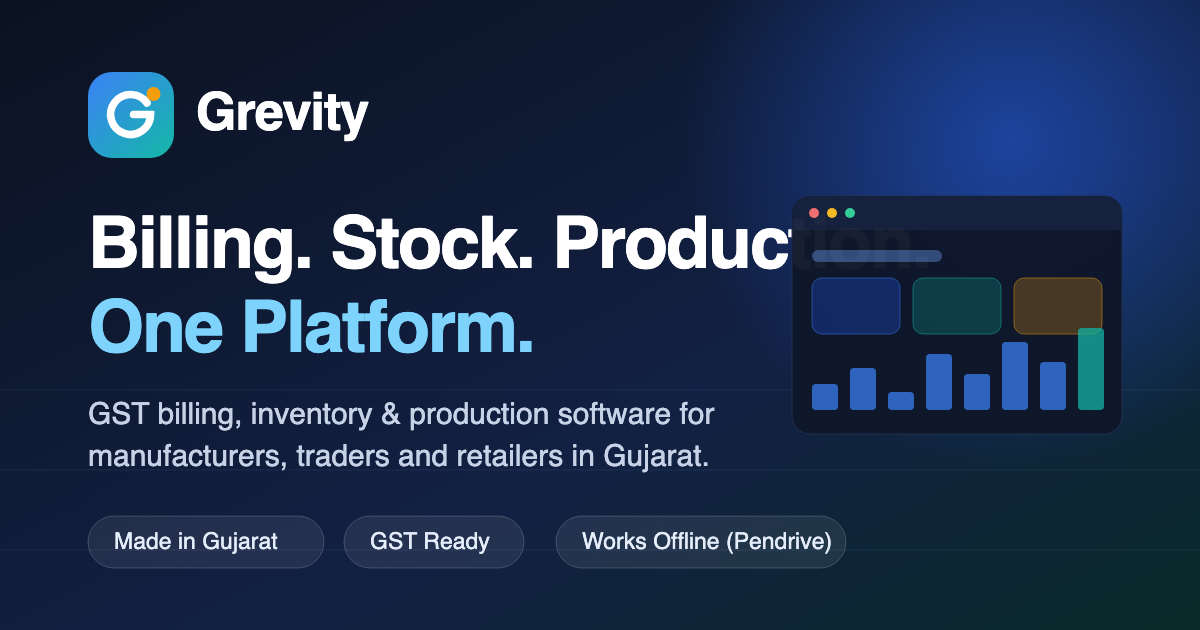
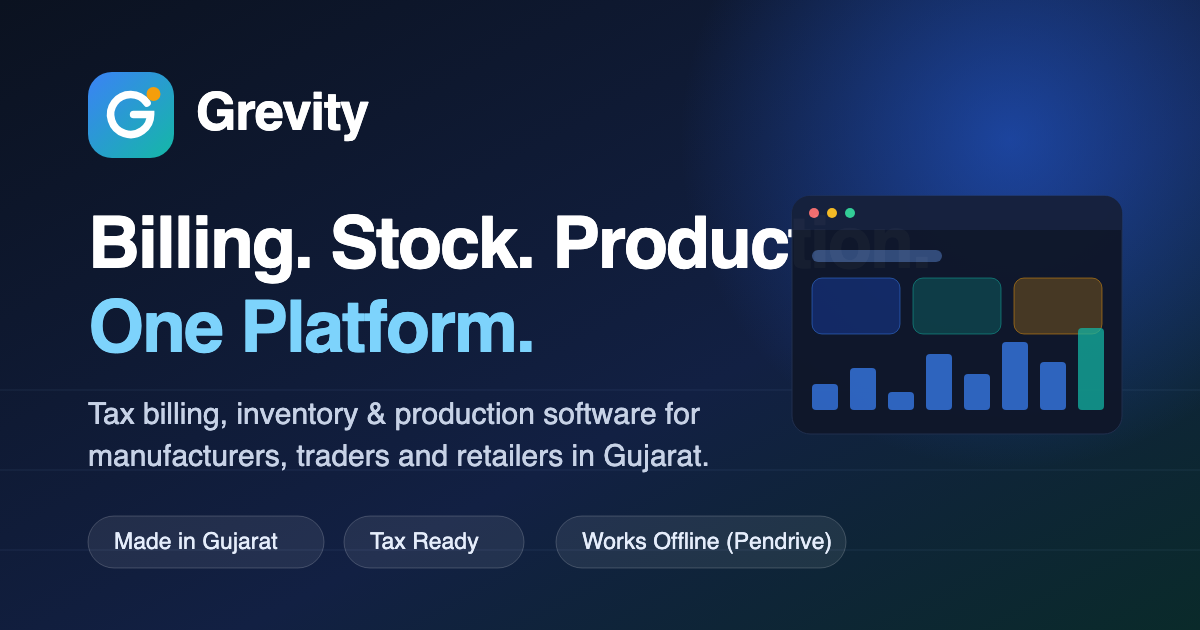
Update terminology from "GST" to "Tax" in documentation and code for consistency

Changed region(s): [[0.0617, 0.6333, 0.5858, 0.6937], [0.3083, 0.8444, 0.4317, 0.8746]]

diff --git a/index.html b/index.html
@@ -4,9 +4,9 @@
 <meta charset="utf-8">
 <meta name="viewport" content="width=device-width, initial-scale=1, viewport-fit=cover">
 
-<title>Grevity — GST Billing, Inventory &amp; Production Software | Rajkot, Gujarat</title>
-<meta name="description" content="Grevity is offline GST billing, invoicing, inventory and production (BOM) software for manufacturers, traders and retailers in Rajkot and across Gujarat. Runs entirely from a USB pendrive — no internet, no server, one-time purchase. Book a free demo.">
-<meta name="keywords" content="offline billing software pendrive, billing software Rajkot, inventory management software Gujarat, GST billing software for manufacturers, billing software without internet, invoicing software Rajkot, BOM production software India, stock management software Gujarat, one-time purchase billing software">
+<title>Grevity — Tax Billing, Inventory &amp; Production Software | Rajkot, Gujarat</title>
+<meta name="description" content="Grevity is offline tax billing, invoicing, inventory and production (BOM) software for manufacturers, traders and retailers in Rajkot and across Gujarat. Runs entirely from a USB pendrive — no internet, no server, one-time purchase. Book a free demo.">
+<meta name="keywords" content="offline billing software pendrive, billing software Rajkot, inventory management software Gujarat, tax billing software for manufacturers, billing software without internet, invoicing software Rajkot, BOM production software India, stock management software Gujarat, one-time purchase billing software">
 <meta name="author" content="Grevity">
 <meta name="robots" content="index, follow, max-image-preview:large">
 <link rel="canonical" href="https://grevity.in/">
@@ -21,7 +21,7 @@
 <meta property="og:locale:alternate" content="gu_IN">
 <meta property="og:url" content="https://grevity.in/">
 <meta property="og:title" content="Grevity — Billing. Stock. Production. One Platform.">
-<meta property="og:description" content="GST billing, live inventory, BOM production tracking and party ledgers — running fully offline from a USB pendrive. Made in Gujarat, built for Rajkot's manufacturers and traders.">
+<meta property="og:description" content="Tax billing, live inventory, BOM production tracking and party ledgers — running fully offline from a USB pendrive. Made in Gujarat, built for Rajkot's manufacturers and traders.">
 <meta property="og:image" content="https://grevity.in/assets/img/og-image.png">
 <meta property="og:image:width" content="1200">
 <meta property="og:image:height" content="630">
@@ -30,7 +30,7 @@
 <!-- Twitter -->
 <meta name="twitter:card" content="summary_large_image">
 <meta name="twitter:title" content="Grevity — Billing. Stock. Production. One Platform.">
-<meta name="twitter:description" content="GST billing, live inventory, BOM production tracking and party ledgers — fully offline from a USB pendrive. Made in Gujarat.">
+<meta name="twitter:description" content="Tax billing, live inventory, BOM production tracking and party ledgers — fully offline from a USB pendrive. Made in Gujarat.">
 <meta name="twitter:image" content="https://grevity.in/assets/img/og-image.png">
 
 <link rel="icon" href="/assets/img/favicon.svg" type="image/svg+xml">
@@ -78,10 +78,10 @@
       "applicationCategory": "BusinessApplication",
       "applicationSubCategory": "Offline Billing, Invoicing and Inventory Management",
       "operatingSystem": "Windows",
-      "description": "Offline GST billing, invoicing, inventory and BOM-based production management software for small and medium manufacturers, traders and retailers in India. Runs entirely from a USB pendrive with its own local database — no internet and no server required.",
+      "description": "Offline tax billing, invoicing, inventory and BOM-based production management software for small and medium manufacturers, traders and retailers in India. Runs entirely from a USB pendrive with its own local database — no internet and no server required.",
       "url": "https://grevity.in/",
       "inLanguage": ["en-IN", "gu-IN"],
-      "featureList": "Runs fully offline from a USB pendrive, GST invoicing, HSN codes, live stock and low-stock alerts, bill of materials and production tracking, customer and supplier ledgers, payment tracking, multi-company management, business reports, Excel export, PDF invoices, audit logs, one-click backup and restore",
+      "featureList": "Runs fully offline from a USB pendrive, tax invoicing, HSN codes, live stock and low-stock alerts, bill of materials and production tracking, customer and supplier ledgers, payment tracking, multi-company management, business reports, Excel export, PDF invoices, audit logs, one-click backup and restore",
       "offers": [
         {
           "@type": "Offer",
@@ -136,8 +136,8 @@
           "acceptedAnswer": { "@type": "Answer", "text": "Yes. Grevity keeps your entire database on your own USB pendrive, so your data never leaves your premises and is never uploaded anywhere. Access is protected by secure login and role-based control, every change is recorded in audit logs, and one-click backup and restore let you keep copies wherever you choose." } },
         { "@type": "Question", "name": "Does Grevity work without internet?",
           "acceptedAnswer": { "@type": "Answer", "text": "Yes. Grevity is offline software only. It runs completely from a USB pendrive with its own local database — no internet connection, no server and no account are required. Plug it into any Windows computer and start billing." } },
-        { "@type": "Question", "name": "Are Grevity invoices GST ready?",
-          "acceptedAnswer": { "@type": "Answer", "text": "Yes. Grevity supports GST invoicing with HSN codes, tax breakups, automatic invoice numbering with custom prefixes and financial-year sequencing, and one-click PDF invoice generation." } },
+        { "@type": "Question", "name": "Are Grevity invoices tax ready?",
+          "acceptedAnswer": { "@type": "Answer", "text": "Yes. Grevity supports tax invoicing with HSN codes, correct tax breakups, automatic invoice numbering with custom prefixes and financial-year sequencing, and one-click PDF invoice generation." } },
         { "@type": "Question", "name": "Can I manage more than one company in Grevity?",
           "acceptedAnswer": { "@type": "Answer", "text": "Yes. Multi-company management lets you switch between all of your businesses from a single login, each with its own products, parties, invoice numbering and reports." } },
         { "@type": "Question", "name": "Does Grevity support Gujarati and Hindi?",
@@ -221,7 +221,7 @@
 
       <p class="hero__sub reveal" data-delay="3" data-i18n="hero.sub">
         No more chasing bills in notebooks, half-broken Excel sheets and “kitna baaki hai?” phone calls.
-        Grevity brings GST invoicing, live stock, BOM-based production and party ledgers into one clean system
+        Grevity brings tax invoicing, live stock, BOM-based production and party ledgers into one clean system
         that runs entirely from a pendrive — no internet, no server, no monthly fee.
       </p>
 
@@ -235,7 +235,7 @@
 
       <ul class="trustbar reveal" data-delay="5">
         <li><span class="msym" aria-hidden="true">location_on</span><span data-i18n="trust.gujarat">Made in Gujarat</span></li>
-        <li><span class="msym" aria-hidden="true">verified</span><span data-i18n="trust.gst">GST Ready</span></li>
+        <li><span class="msym" aria-hidden="true">verified</span><span data-i18n="trust.gst">Tax Ready</span></li>
         <li><span class="msym" aria-hidden="true">usb</span><span data-i18n="trust.offline">Works Offline — Pendrive Edition</span></li>
         <li><span class="msym" aria-hidden="true">shield_lock</span><span data-i18n="trust.secure">Data Secured</span></li>
       </ul>
@@ -358,7 +358,7 @@
       <li><span class="stat__num" data-count="500" data-suffix="+">0</span><span class="stat__label" data-i18n="stat.invoices">Invoices Generated</span></li>
       <li><span class="stat__num" data-prefix="₹" data-count="2" data-suffix="Cr+">0</span><span class="stat__label" data-i18n="stat.txn">Transactions Tracked</span></li>
       <li><span class="stat__num" data-count="19" data-suffix="+">0</span><span class="stat__label" data-i18n="stat.features">Business Features</span></li>
-      <li><span class="stat__num" data-count="100" data-suffix="%">0</span><span class="stat__label" data-i18n="stat.gst">GST Ready</span></li>
+      <li><span class="stat__num" data-count="100" data-suffix="%">0</span><span class="stat__label" data-i18n="stat.gst">Tax Ready</span></li>
     </ul>
   </div>
 </section>
@@ -377,11 +377,11 @@
         <div class="compare__bad">
           <span class="msym" aria-hidden="true">close</span>
           <h3 data-i18n="cmp1.badT">Bills written by hand</h3>
-          <p data-i18n="cmp1.badP">Wrong GST, repeated invoice numbers, no copy when the party asks again.</p>
+          <p data-i18n="cmp1.badP">Wrong tax, repeated invoice numbers, no copy when the party asks again.</p>
         </div>
         <div class="compare__good">
           <span class="msym" aria-hidden="true">check_circle</span>
-          <h3 data-i18n="cmp1.goodT">GST invoice in 30 seconds</h3>
+          <h3 data-i18n="cmp1.goodT">Tax invoice in 30 seconds</h3>
           <p data-i18n="cmp1.goodP">Auto numbering with your prefix and financial year, correct tax, instant PDF.</p>
         </div>
       </article>
@@ -451,7 +451,7 @@
       <article class="card feature reveal" data-cat="billing">
         <span class="feature__icon msym" aria-hidden="true">receipt_long</span>
         <h3 data-i18n="f1.t">Sales &amp; Purchase Invoicing</h3>
-        <p data-i18n="f1.d">GST-ready sales and purchase bills with automatic invoice numbering, custom prefixes and financial-year sequencing.</p>
+        <p data-i18n="f1.d">Tax-ready sales and purchase bills with automatic invoice numbering, custom prefixes and financial-year sequencing.</p>
       </article>
 
       <article class="card feature reveal" data-cat="billing">
@@ -645,7 +645,7 @@
       <li class="step reveal" data-delay="2">
         <span class="step__num">2</span>
         <h3 data-i18n="s2.t">Set up your company</h3>
-        <p data-i18n="s2.d">Add your GSTIN, logo, invoice prefix and financial year. We do this with you, in Gujarati if you prefer.</p>
+        <p data-i18n="s2.d">Add your tax registration number, logo, invoice prefix and financial year. We do this with you, in Gujarati if you prefer.</p>
       </li>
       <li class="step reveal" data-delay="3">
         <span class="step__num">3</span>
@@ -655,7 +655,7 @@
       <li class="step reveal" data-delay="4">
         <span class="step__num">4</span>
         <h3 data-i18n="s4.t">Start billing</h3>
-        <p data-i18n="s4.d">Raise your first GST invoice, watch stock update itself, and send the PDF on WhatsApp.</p>
+        <p data-i18n="s4.d">Raise your first tax invoice, watch stock update itself, and send the PDF on WhatsApp.</p>
       </li>
     </ol>
   </div>
@@ -688,7 +688,7 @@
           <strong data-renew="5000">₹5,000</strong>
           <span data-i18n="pricing.perYear">per year</span>
         </p>
-        <p class="plan__note" data-i18n="pricing.gstNote">+ GST · no monthly fee, no per-invoice charge</p>
+        <p class="plan__note" data-i18n="pricing.gstNote">+ tax · no monthly fee, no per-invoice charge</p>
         <a class="btn btn--primary btn--block btn--lg plan__cta" href="#demo">
           <span data-i18n="cta.demoFree">Book a Free Demo</span>
           <span class="msym" aria-hidden="true">arrow_forward</span>
@@ -697,7 +697,7 @@
         <ul class="ticks ticks--sm">
           <li><span class="msym" aria-hidden="true">check_circle</span><span data-i18n="plan.f1">Runs fully offline from a USB drive</span></li>
           <li><span class="msym" aria-hidden="true">check_circle</span><span data-i18n="plan.f2">Own local database — data stays with you</span></li>
-          <li><span class="msym" aria-hidden="true">check_circle</span><span data-i18n="plan.f3">GST sales &amp; purchase invoicing</span></li>
+          <li><span class="msym" aria-hidden="true">check_circle</span><span data-i18n="plan.f3">Tax sales &amp; purchase invoicing</span></li>
           <li><span class="msym" aria-hidden="true">check_circle</span><span data-i18n="plan.f4">Quotation → Order → Invoice workflow</span></li>
           <li><span class="msym" aria-hidden="true">check_circle</span><span data-i18n="plan.f5">Products, stock &amp; low-stock alerts</span></li>
           <li><span class="msym" aria-hidden="true">check_circle</span><span data-i18n="plan.f6">BOM &amp; production cost tracking</span></li>
@@ -779,8 +779,8 @@
         <div class="acc__body"><p data-i18n="faq.a2">Never. Grevity is offline software only — it runs from the USB pendrive with its own local database on any Windows computer. No connection, no server, no login to a website. Power cuts and network problems on the shop floor stop being your problem.</p></div>
       </details>
       <details class="acc__item reveal">
-        <summary><span data-i18n="faq.q3">Are the invoices GST compliant?</span><span class="msym acc__chev" aria-hidden="true">expand_more</span></summary>
-        <div class="acc__body"><p data-i18n="faq.a3">Grevity generates GST invoices with HSN codes, correct tax breakups, your own invoice prefix and financial-year-wise numbering, exported as clean PDFs. Your reports and Excel exports are formatted so your CA can work with them directly.</p></div>
+        <summary><span data-i18n="faq.q3">Are the invoices tax compliant?</span><span class="msym acc__chev" aria-hidden="true">expand_more</span></summary>
+        <div class="acc__body"><p data-i18n="faq.a3">Grevity generates tax invoices with HSN codes, correct tax breakups, your own invoice prefix and financial-year-wise numbering, exported as clean PDFs. Your reports and Excel exports are formatted so your CA can work with them directly.</p></div>
       </details>
       <details class="acc__item reveal">
         <summary><span data-i18n="faq.q4">Can I run more than one firm?</span><span class="msym acc__chev" aria-hidden="true">expand_more</span></summary>
@@ -800,7 +800,7 @@
       </details>
       <details class="acc__item reveal">
         <summary><span data-i18n="faq.q8">Is there an AMC or hidden charge?</span><span class="msym acc__chev" aria-hidden="true">expand_more</span></summary>
-        <div class="acc__body"><p data-i18n="faq.a8">Nothing hidden. Grevity is ₹7,000 for the first year — pendrive, setup, data import, training and support included — and ₹5,000 a year after that. That yearly renewal is the only recurring charge and it covers your licence, all updates and support. No monthly fee, no per-invoice charge, no separate AMC on top. GST applies as per law.</p></div>
+        <div class="acc__body"><p data-i18n="faq.a8">Nothing hidden. Grevity is ₹7,000 for the first year — pendrive, setup, data import, training and support included — and ₹5,000 a year after that. That yearly renewal is the only recurring charge and it covers your licence, all updates and support. No monthly fee, no per-invoice charge, no separate AMC on top. Tax applies as per law.</p></div>
       </details>
     </div>
   </div>

diff --git a/assets/js/i18n-gu.js b/assets/js/i18n-gu.js
@@ -27,9 +27,9 @@ window.GREVITY_GU = {
   'hero.h1a': 'બિલિંગ. સ્ટોક. ઉત્પાદન.',
   'hero.h1b': 'એક જ પ્લેટફોર્મ.',
   'hero.rotatorPre': 'તમારા ધંધા માટે બનેલું —',
-  'hero.sub': 'હવે ચોપડામાં બિલ શોધવાના, અધૂરી એક્સેલ ફાઇલો સંભાળવાના કે “કેટલા બાકી છે?” એવા ફોન કરવાના દિવસો પૂરા. Grevity જીએસટી બિલિંગ, લાઇવ સ્ટોક, BOM આધારિત ઉત્પાદન અને પાર્ટી ખાતાવહી — બધું એક જ સિસ્ટમમાં લાવે છે, જે આખેઆખી પેનડ્રાઇવમાંથી ચાલે છે. ઇન્ટરનેટ નહીં, સર્વર નહીં, માસિક ફી નહીં.',
+  'hero.sub': 'હવે ચોપડામાં બિલ શોધવાના, અધૂરી એક્સેલ ફાઇલો સંભાળવાના કે “કેટલા બાકી છે?” એવા ફોન કરવાના દિવસો પૂરા. Grevity ટેક્સ બિલિંગ, લાઇવ સ્ટોક, BOM આધારિત ઉત્પાદન અને પાર્ટી ખાતાવહી — બધું એક જ સિસ્ટમમાં લાવે છે, જે આખેઆખી પેનડ્રાઇવમાંથી ચાલે છે. ઇન્ટરનેટ નહીં, સર્વર નહીં, માસિક ફી નહીં.',
   'trust.gujarat': 'ગુજરાતમાં બનેલું',
-  'trust.gst': 'જીએસટી રેડી',
+  'trust.gst': 'ટેક્સ રેડી',
   'trust.offline': 'ઓફલાઇન ચાલે — પેનડ્રાઇવ એડિશન',
   'trust.secure': 'ડેટા સુરક્ષિત',
   'float.invoice': 'ઇન્વોઇસ GRV/25-26/0142',
@@ -39,15 +39,15 @@ window.GREVITY_GU = {
   'stat.invoices': 'ઇન્વોઇસ બનાવાયા',
   'stat.txn': 'વ્યવહારો નોંધાયા',
   'stat.features': 'બિઝનેસ ફીચર્સ',
-  'stat.gst': 'જીએસટી રેડી',
+  'stat.gst': 'ટેક્સ રેડી',
 
   /* problem vs solution */
   'eyebrow.problem': 'રોજની મુશ્કેલી',
   'problem.h2': 'ચોપડા અને એક્સેલ ક્યારેય ફેક્ટરી ચલાવવા માટે બન્યા જ નહોતા',
   'problem.sub': 'આમાંનું કંઈ પણ તમારા અઠવાડિયા જેવું લાગે, તો નુકસાન તમે જાણો છો. Grevity પહેલા દિવસથી જ તેનો ઉકેલ આપે છે.',
   'cmp1.badT': 'હાથે લખેલા બિલ',
-  'cmp1.badP': 'ખોટો જીએસટી, એક જ ઇન્વોઇસ નંબર બે વાર, અને પાર્ટી ફરી માંગે ત્યારે નકલ જ ન મળે.',
-  'cmp1.goodT': '30 સેકન્ડમાં જીએસટી બિલ',
+  'cmp1.badP': 'ખોટો ટેક્સ, એક જ ઇન્વોઇસ નંબર બે વાર, અને પાર્ટી ફરી માંગે ત્યારે નકલ જ ન મળે.',
+  'cmp1.goodT': '30 સેકન્ડમાં ટેક્સ બિલ',
   'cmp1.goodP': 'તમારા પ્રિફિક્સ અને નાણાકીય વર્ષ પ્રમાણે ઓટોમેટિક નંબરિંગ, સાચો ટેક્સ, તરત જ PDF.',
   'cmp2.badT': 'સ્ટોક ફક્ત યાદશક્તિમાં',
   'cmp2.badP': 'દર મહિને ગોડાઉનમાં ગણતરી, અને જે માલ છે જ નહીં તેના ઓર્ડર સ્વીકારાઈ જાય.',
@@ -76,7 +76,7 @@ window.GREVITY_GU = {
   'tag.unique': 'રાજકોટમાં બીજું કોઈ આ નથી આપતું',
 
   'f1.t': 'સેલ્સ અને પરચેઝ બિલિંગ',
-  'f1.d': 'જીએસટી રેડી વેચાણ અને ખરીદ બિલ, ઓટોમેટિક ઇન્વોઇસ નંબરિંગ, પોતાના પ્રિફિક્સ અને નાણાકીય વર્ષ પ્રમાણે ક્રમ.',
+  'f1.d': 'ટેક્સ રેડી વેચાણ અને ખરીદ બિલ, ઓટોમેટિક ઇન્વોઇસ નંબરિંગ, પોતાના પ્રિફિક્સ અને નાણાકીય વર્ષ પ્રમાણે ક્રમ.',
   'f2.t': 'ડોક્યુમેન્ટ વર્કફ્લો સ્ટેજ',
   'f2.d': 'ડ્રાફ્ટ → ક્વોટેશન → ઓર્ડર → ઇન્વોઇસ, ફરી ટાઇપ કર્યા વગર એક જ ક્લિકમાં આગળ વધો.',
   'f3.t': 'પ્રોડક્ટ અને સબ-પ્રોડક્ટ મેનેજમેન્ટ',
@@ -133,11 +133,11 @@ window.GREVITY_GU = {
   's1.t': 'સાઇન અપ કરો',
   's1.d': 'ફ્રી ડેમો બુક કરો. પહેલા વર્ષની ચુકવણી કરો અને તમારી લાઇસન્સવાળી Grevity પેનડ્રાઇવ મળી જાય — કોઈ એકાઉન્ટ નહીં, સર્વર નહીં, નેટવર્ક પર કંઈ ઇન્સ્ટોલ કરવાનું નહીં.',
   's2.t': 'કંપની સેટ કરો',
-  's2.d': 'તમારો GSTIN, લોગો, ઇન્વોઇસ પ્રિફિક્સ અને નાણાકીય વર્ષ ઉમેરો. અમે તમારી સાથે બેસીને કરીએ — તમે કહો તો ગુજરાતીમાં.',
+  's2.d': 'તમારો ટેક્સ રજિસ્ટ્રેશન નંબર, લોગો, ઇન્વોઇસ પ્રિફિક્સ અને નાણાકીય વર્ષ ઉમેરો. અમે તમારી સાથે બેસીને કરીએ — તમે કહો તો ગુજરાતીમાં.',
   's3.t': 'પ્રોડક્ટ અને પાર્ટી ઉમેરો',
   's3.d': 'તમારી આઇટમ યાદી, HSN કોડ, ગ્રાહકો અને સપ્લાયર — ઓપનિંગ બેલેન્સ સાથે — ઇમ્પોર્ટ કરો.',
   's4.t': 'બિલિંગ શરૂ કરો',
-  's4.d': 'પહેલું જીએસટી બિલ બનાવો, સ્ટોક જાતે અપડેટ થતો જુઓ, અને PDF વોટ્સએપ પર મોકલો.',
+  's4.d': 'પહેલું ટેક્સ બિલ બનાવો, સ્ટોક જાતે અપડેટ થતો જુઓ, અને PDF વોટ્સએપ પર મોકલો.',
 
   /* pricing */
   'eyebrow.pricing': 'સરળ કિંમત',
@@ -147,12 +147,12 @@ window.GREVITY_GU = {
   'pricing.firstYear': 'પહેલું વર્ષ',
   'pricing.then': 'પછી',
   'pricing.perYear': 'દર વર્ષે',
-  'pricing.gstNote': '+ જીએસટી · માસિક ફી નહીં, બિલદીઠ ચાર્જ નહીં',
+  'pricing.gstNote': '+ ટેક્સ · માસિક ફી નહીં, બિલદીઠ ચાર્જ નહીં',
   'plan.name': 'Grevity પેનડ્રાઇવ એડિશન',
   'plan.for': 'તમારો આખો ધંધો, સંપૂર્ણ ઓફલાઇન, તમારી પોતાની USB ડ્રાઇવમાં',
   'plan.f1': 'USB ડ્રાઇવમાંથી સંપૂર્ણ ઓફલાઇન ચાલે',
   'plan.f2': 'પોતાનો લોકલ ડેટાબેઝ — ડેટા તમારી પાસે જ',
-  'plan.f3': 'જીએસટી સેલ્સ અને પરચેઝ બિલિંગ',
+  'plan.f3': 'ટેક્સ સેલ્સ અને પરચેઝ બિલિંગ',
   'plan.f4': 'ક્વોટેશન → ઓર્ડર → ઇન્વોઇસ વર્કફ્લો',
   'plan.f5': 'પ્રોડક્ટ, સ્ટોક અને ઓછા સ્ટોકની ચેતવણી',
   'plan.f6': 'BOM અને ઉત્પાદન ખર્ચ ટ્રેકિંગ',
@@ -186,8 +186,8 @@ window.GREVITY_GU = {
   'faq.a1': 'મોટા ભાગના સોફ્ટવેર કરતાં વધુ સુરક્ષિત, કારણ કે કંઈ પણ તમારી જગ્યાની બહાર જતું નથી. તમારો આખો ડેટાબેઝ તમારી પોતાની USB પેનડ્રાઇવમાં રહે છે — તે ક્યારેય કોઈ સર્વર પર અપલોડ થતો નથી અને અમે તેને જોઈ શકતા નથી. સુરક્ષિત લોગિન અને ભૂમિકા પ્રમાણે એક્સેસ, દરેક ફેરફારના ઓડિટ લોગ, અને એક ક્લિકમાં બેકઅપ-રિસ્ટોર — નકલ તમારે જ્યાં રાખવી હોય ત્યાં રાખો.',
   'faq.q2': 'વાપરવા માટે ઇન્ટરનેટ જોઈએ?',
   'faq.a2': 'ક્યારેય નહીં. Grevity ફક્ત ઓફલાઇન સોફ્ટવેર છે — તે પોતાના લોકલ ડેટાબેઝ સાથે કોઈ પણ વિન્ડોઝ કમ્પ્યુટર પર પેનડ્રાઇવમાંથી ચાલે છે. કોઈ કનેક્શન નહીં, સર્વર નહીં, વેબસાઇટ પર લોગિન નહીં. શોપ ફ્લોર પર નેટવર્ક અને લાઇટની ઝંઝટ હવે તમારી સમસ્યા રહેતી નથી.',
-  'faq.q3': 'બિલ જીએસટી પ્રમાણે બને છે?',
-  'faq.a3': 'Grevity HSN કોડ, સાચા ટેક્સ વિભાજન, તમારા પોતાના ઇન્વોઇસ પ્રિફિક્સ અને નાણાકીય વર્ષ પ્રમાણેના નંબરિંગ સાથે જીએસટી બિલ બનાવે છે અને સ્વચ્છ PDF આપે છે. રિપોર્ટ અને એક્સેલ એક્સપોર્ટ એવા ફોર્મેટમાં હોય છે કે તમારા CA સીધા વાપરી શકે.',
+  'faq.q3': 'બિલ ટેક્સ પ્રમાણે બને છે?',
+  'faq.a3': 'Grevity HSN કોડ, સાચા ટેક્સ વિભાજન, તમારા પોતાના ઇન્વોઇસ પ્રિફિક્સ અને નાણાકીય વર્ષ પ્રમાણેના નંબરિંગ સાથે ટેક્સ બિલ બનાવે છે અને સ્વચ્છ PDF આપે છે. રિપોર્ટ અને એક્સેલ એક્સપોર્ટ એવા ફોર્મેટમાં હોય છે કે તમારા CA સીધા વાપરી શકે.',
   'faq.q4': 'એકથી વધુ પેઢી ચલાવી શકાય?',
   'faq.a4': 'હા. મલ્ટિ-કંપની મેનેજમેન્ટથી એક જ લોગિનમાંથી બધી પેઢી વચ્ચે બદલી શકાય — દરેકના પોતાના પ્રોડક્ટ, પાર્ટી, ઇન્વોઇસ નંબરિંગ, મૂડી ખાતું અને રિપોર્ટ સાથે.',
   'faq.q5': 'ગુજરાતી અને હિન્દી સપોર્ટ મળે છે?',
@@ -197,7 +197,7 @@ window.GREVITY_GU = {
   'faq.q7': 'સેટઅપમાં કેટલો સમય લાગે?',
   'faq.a7': 'રાજકોટના મોટા ભાગના ધંધા એ જ દિવસે પહેલું બિલ બનાવે છે. આઇટમ યાદી મોટી હોય તો બે કામકાજના દિવસમાં ઇમ્પોર્ટ પૂરો કરીએ છીએ — જ્યાં પહોંચી શકાય ત્યાં રૂબરૂ મદદ સાથે.',
   'faq.q8': 'કોઈ AMC કે છુપો ચાર્જ છે?',
-  'faq.a8': 'કંઈ છુપાવેલું નથી. Grevity પહેલા વર્ષ માટે ₹7,000 છે — પેનડ્રાઇવ, સેટઅપ, ડેટા ઇમ્પોર્ટ, ટ્રેનિંગ અને સપોર્ટ સામેલ — અને પછી દર વર્ષે ₹5,000. એ વાર્ષિક રિન્યુઅલ જ એકમાત્ર વારંવારનો ખર્ચ છે અને તેમાં તમારું લાઇસન્સ, બધા અપડેટ અને સપોર્ટ આવી જાય છે. કોઈ માસિક ફી નહીં, બિલદીઠ ચાર્જ નહીં, ઉપરથી અલગ AMC નહીં. જીએસટી કાયદા મુજબ લાગુ પડશે.',
+  'faq.a8': 'કંઈ છુપાવેલું નથી. Grevity પહેલા વર્ષ માટે ₹7,000 છે — પેનડ્રાઇવ, સેટઅપ, ડેટા ઇમ્પોર્ટ, ટ્રેનિંગ અને સપોર્ટ સામેલ — અને પછી દર વર્ષે ₹5,000. એ વાર્ષિક રિન્યુઅલ જ એકમાત્ર વારંવારનો ખર્ચ છે અને તેમાં તમારું લાઇસન્સ, બધા અપડેટ અને સપોર્ટ આવી જાય છે. કોઈ માસિક ફી નહીં, બિલદીઠ ચાર્જ નહીં, ઉપરથી અલગ AMC નહીં. ટેક્સ કાયદા મુજબ લાગુ પડશે.',
 
   /* demo + form */
   'eyebrow.demo': 'ફ્રી ડેમો',

diff --git a/README.md b/README.md
@@ -119,7 +119,7 @@ the FAQ, the pricing or the structured data — keep it that way when editing.
 ## SEO
 
 Meta description and keywords target *billing software Rajkot*, *inventory
-management software Gujarat*, *GST billing software for manufacturers*. Includes
+management software Gujarat*, *tax billing software for manufacturers*. Includes
 Open Graph + Twitter cards (`assets/img/og-image.png`, 1200×630), canonical URL,
 `sitemap.xml`, `robots.txt`, and JSON-LD for `SoftwareApplication`,
 `LocalBusiness` (Rajkot) and `FAQPage`.
